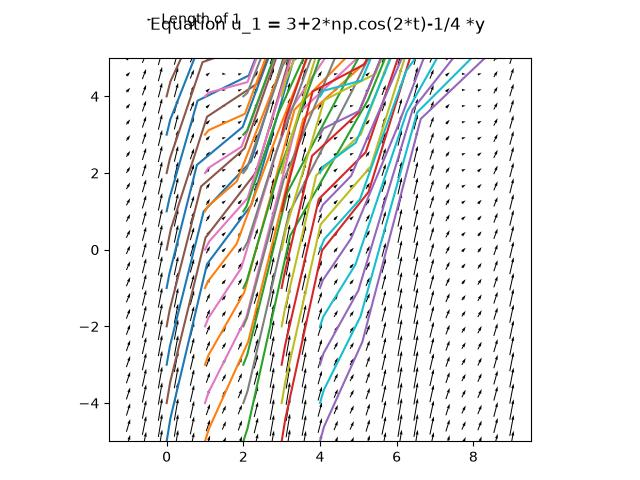
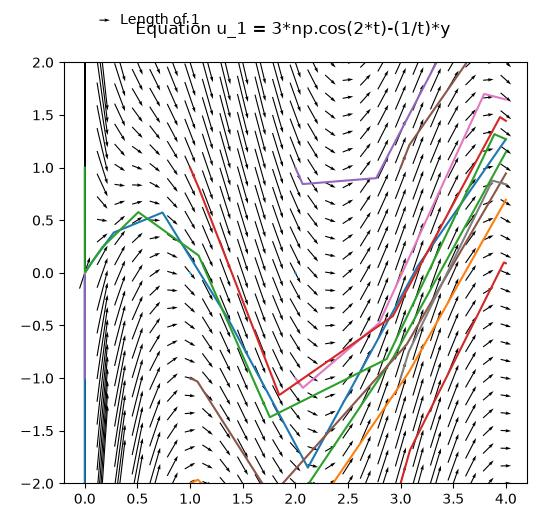
some ivp exercises

diff --git a/exercises.py b/exercises.py
@@ -6,43 +6,67 @@ expr_1 = 't+np.exp(-2*t)-3*y'
 expr_2 = '1 + t*np.exp(-t) - y'
 expr_3 = '3+2*np.cos(2*t)-1/4 *y'
 expr_4 = '3*np.cos(2*t)-(1/t)*y'
+expr_5 = '(t-np.exp(-t))/(y+np.exp(y))'
+expr_6 = 't**2 / (1+y**2)'
+expr_7= 'y'
+expr_8='-t'
+expr_9='-t*np.exp(t)/y'
+expr_10 = '2*t/(1+2*y)'
+
+expr_list = [expr_1,expr_2,expr_3,expr_4,expr_5,expr_6,expr_7,expr_8,expr_9,expr_10]
 
 def evaluator_1(t,y,expr):
     """Expression evaluator for first order ODE"""
     return eval(expr)
+
+def evaluator_2(x,Y,expr_1,expr_2):
+    t = Y[0]
+    y = Y[1]
+    return [eval(expr_1),eval(expr_2)]
+
 def solution_1(t,c):
     return t/3 -1/9 + np.exp(-2*t)+c*np.exp(-3*t)
 
 def solution_4(t,c):
     return 3/2 *(np.sin(2*t)+np.cos(2*t)/2/t)
+
+def zero_event(t,y):
+    return abs(y[0])-1e-3
 def plot_field(expr,index):
     """Convert a functional first order ODE expression into vector field plot"""
 #    q = plt.quiver(I,J,U / length,V / length,scale=25,angles='xy')
-    t_max = 9
-    time = np.linspace(-1,t_max,25)
-    space = np.linspace(-5,5,25)
+    t_max = 4
+    t_min = 1e-5
+    time = np.linspace(t_min,t_max,25)
+    space = np.linspace(-2,2,25)
     I, J = np.meshgrid(time,space)
     fig, ax = plt.subplots()
-
     U = np.ones_like(I)
     V = evaluator_1(I,J,expr)
+    V = np.where(V!=0, V, np.nan)
+    #V = J
+#    U,V=evaluator_2(I,J,expr_7,expr_8)
     #q = ax[index].quiver(i,j,i+0.5,0.5*func(i,j)+j)
     q = ax.quiver(I,J,U,V,scale=10,angles='xy',scale_units='xy',pivot='mid')
     ax.quiverkey(q, X=0.1,Y=1.1,U=1,label='Length of 1',labelpos='E')
     #ax[index].quiverkey(q, X=0.3,Y=0.3,U=1,label='Test',labelpos='E')
-    cs = np.arange(-5,5,1)
+    cs = np.arange(-2,2,1)
     for c in cs:
-        for t0 in np.arange(0.1,5,5):
+        for t0 in np.arange(t_min,t_max,1):
             y0 = c
-            sol = solve_ivp(lambda t,y : evaluator_1(t,y,expr),(t0,t_max),[y0])
-            ax.plot(sol.t,sol.y[0],label='Soln at y0 = '+str(c))
-            ax.plot(time,solution_4(time,y0))
+            zero_event.terminal = True
+            sol = solve_ivp(lambda t,y : evaluator_1(t,y,expr),(t0,t_max),[y0],events=zero_event)
+            ax.plot(sol.t,sol.y[0],label='Soln at t0 = '+str(t0)+' y0 = '+str(y0))
+##          #  ax.plot(time,solution_4(time,y0))
     ax.set_aspect('equal')
-    ax.set_ylim(-5,5)
-    plt.title(f"Equation u_1 = {expr} \n")
+    ax.set_ylim(-2,2)
+
     plt.tight_layout()
-    plt.savefig(f'fields/field_exercise_{index}.jpg')
+    plt.title(f"Equation u_1 = {expr} \n")
+#    plt.legend()
+    plt.savefig(f'fields/field_exercise_{index}.jpg',bbox_inches='tight',pad_inches=0.2)
 
     plt.show()
 
-plot_field(expr_4,4)
+for index,expr in enumerate(expr_list):
+    plot_field(expr,index)
